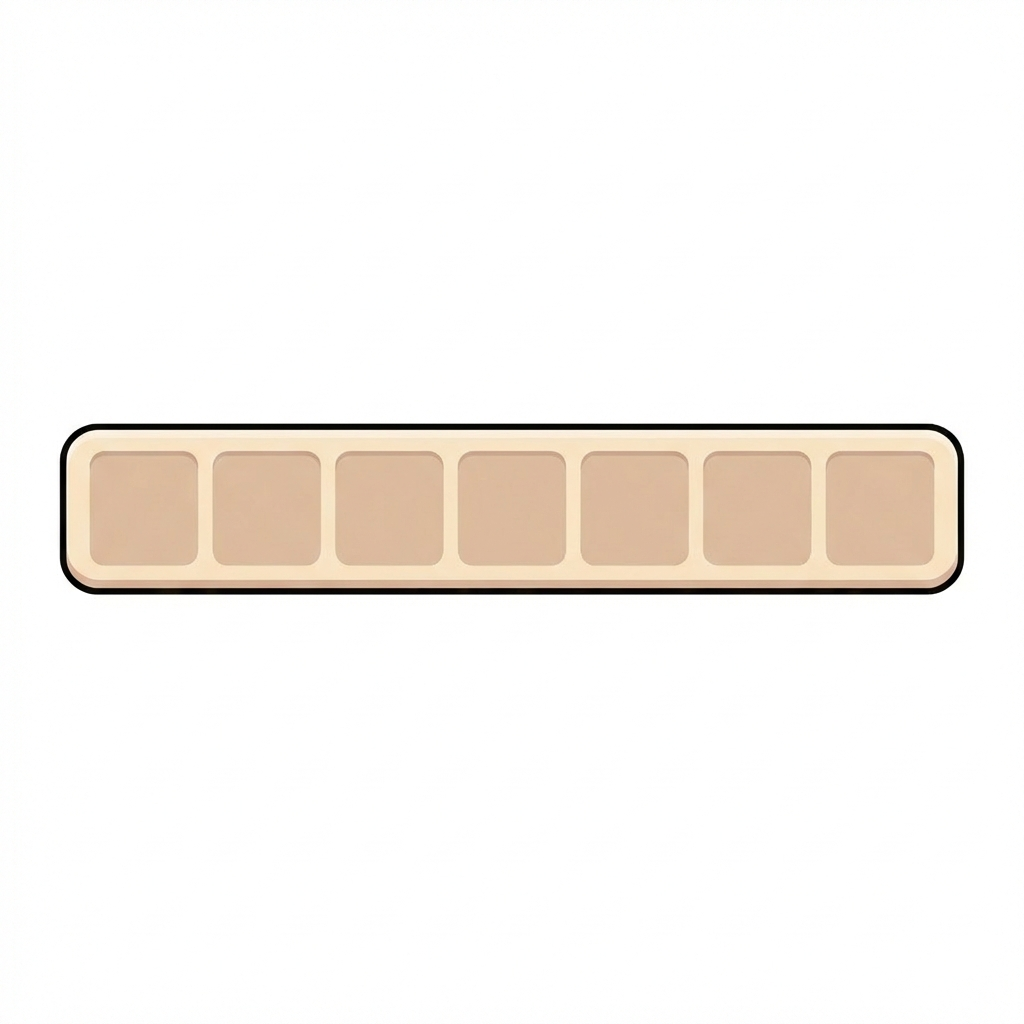
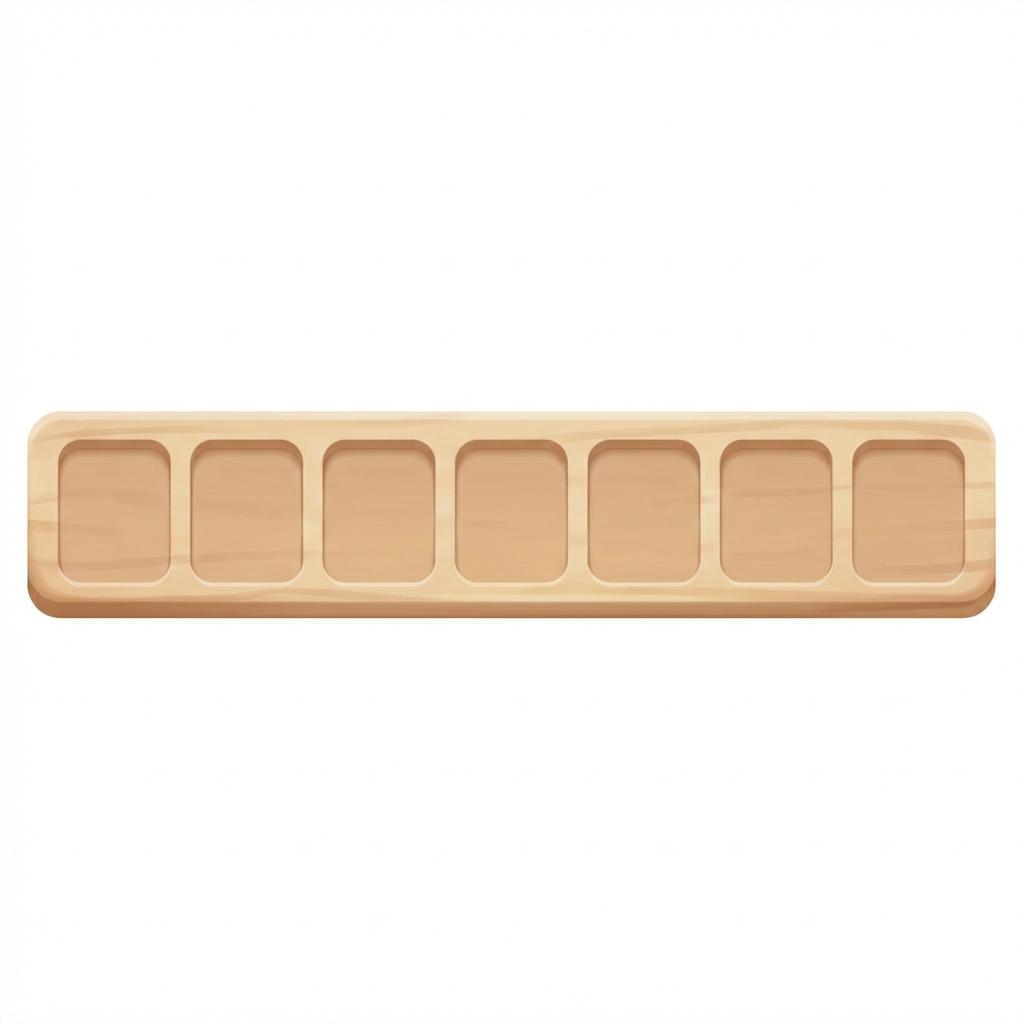
fix(ui): re-gen clean assets, fix win logic, and polish css blend modes

Changed region(s): [[0.0, 0.375, 1.0, 0.625]]

diff --git a/components/activities/tile-match/GameScreen.tsx b/components/activities/tile-match/GameScreen.tsx
@@ -63,11 +63,8 @@ export const GameScreen: React.FC<GameScreenProps> = ({ initialState, runId, lev
         if (matchedType) {
             // Remove 3 tiles of this type
             setTimeout(() => {
-                const keep: Tile[] = [];
                 let removed = 0;
-                // We keep the order generally but filter out the triplets
-                // Usually matching tiles slide together then pop.
-                // Simple version: Filter out first 3 instances
+                // Filter out first 3 instances
                 const newSlots = slots.filter(t => {
                     if (t.type === matchedType && removed < 3) {
                         removed++;
@@ -77,14 +74,22 @@ export const GameScreen: React.FC<GameScreenProps> = ({ initialState, runId, lev
                 });
 
                 setSlots(newSlots);
-                setStatus('playing');
-            }, 300); // Small delay for visual "clink"
+
+                // CRITICAL FIX: Check Win Condition immediately after clearing slots
+                if (newSlots.length === 0 && tiles.every(t => t.isRemoved)) {
+                    setStatus('won');
+                    onFinish('won');
+                } else {
+                    setStatus('playing');
+                }
+            }, 300);
         } else {
-            // Check Lose
+            // Check Lose logic (only if not waiting for timeout)
             if (slots.length >= 7) {
                 setStatus('lost');
                 onFinish('lost');
             } else if (tiles.every(t => t.isRemoved)) {
+                // This covers winning without a final match (rare but possible)
                 setStatus('won');
                 onFinish('won');
             } else {
@@ -149,12 +154,12 @@ export const GameScreen: React.FC<GameScreenProps> = ({ initialState, runId, lev
     const handleHint = () => {
         if (toolCounts.hint >= LIMIT) return;
 
-        // Simple hint: find a clickable tile that matches something in slot
+        // Simple hint
         const clickables = tiles.filter(t => t.isClickable);
 
         let match: Tile | undefined;
 
-        // Priority logic (same as before)
+        // Priority logic
         if (slots.length > 0) {
             const counts: Record<string, number> = {};
             slots.forEach(t => counts[t.type] = (counts[t.type] || 0) + 1);
@@ -179,7 +184,7 @@ export const GameScreen: React.FC<GameScreenProps> = ({ initialState, runId, lev
     const handleRestart = () => {
         if (toolCounts.restart >= LIMIT) return;
         setToolCounts(prev => ({ ...prev, restart: prev.restart + 1 }));
-        window.location.reload(); // Simple reload for now
+        window.location.reload();
     };
 
     return (
@@ -218,12 +223,12 @@ export const GameScreen: React.FC<GameScreenProps> = ({ initialState, runId, lev
 
             {/* Slot Tray & Controls */}
             <div className="h-40 bg-white/10 backdrop-blur-md border-t border-white/20 relative z-30 flex flex-col items-center justify-end pb-4 pt-2">
-                {/* Tray Background Image */}
+                {/* Tray Background Image - Updated with proper scaling and blend mode */}
                 <div className="relative w-[340px] h-[60px] flex items-center justify-center mb-2">
-                    <img src="/game-assets/ui/ui-tray-gen.png" className="absolute inset-0 w-full h-full object-contain pointer-events-none drop-shadow-lg" alt="tray"
+                    <img src="/game-assets/ui/ui-tray-gen.png" className="absolute inset-0 w-full h-full object-fill mix-blend-multiply pointer-events-none drop-shadow-lg" alt="tray"
                         onError={(e) => { e.currentTarget.style.display = 'none'; }} />
 
-                    {/* Fallback Tray Styles (only visible if img fails) */}
+                    {/* Fallback Tray Styles */}
                     <div className="absolute inset-0 bg-black/20 rounded-xl border border-white/10 -z-10"></div>
 
                     {/* Slots Layer - Align with generated image */}
@@ -267,7 +272,7 @@ export const GameScreen: React.FC<GameScreenProps> = ({ initialState, runId, lev
                 </div>
             </div>
 
-            {/* Overlays (Win/Loss) */}
+            {/* Overlays (Win/Loss) - Ensure z-index is highest */}
             {status === 'won' && (
                 <div className="absolute inset-0 z-50 bg-black/80 flex flex-col items-center justify-center animate-in fade-in">
                     <div className="relative z-10 text-center p-8 bg-white/10 backdrop-blur-xl rounded-3xl border border-white/20 shadow-2xl">
@@ -293,7 +298,7 @@ export const GameScreen: React.FC<GameScreenProps> = ({ initialState, runId, lev
     );
 };
 
-// Updated ToolBtn to use Sprite Sheet
+// Updated ToolBtn to use Sprite Sheet with Blend Mode
 const ToolBtn = ({ label, onClick, disabled, spriteIndex }: { label: string, onClick: () => void, disabled: boolean, spriteIndex: number }) => {
     // Sprite calc: 5 items. Positions: 0, 25, 50, 75, 100%
     const xPos = spriteIndex * 25;
@@ -306,7 +311,7 @@ const ToolBtn = ({ label, onClick, disabled, spriteIndex }: { label: string, onC
         >
             <div className="size-14 rounded-full shadow-lg border-2 border-white/40 overflow-hidden bg-white/10 relative">
                 <div
-                    className="absolute inset-0"
+                    className="absolute inset-0 mix-blend-multiply" // Added blend mode to remove white bg
                     style={{
                         backgroundImage: 'url(/game-assets/sprites/ui-buttons-gen.png)',
                         backgroundSize: '500% 100%',

diff --git a/components/activities/tile-match/TileRenderer.tsx b/components/activities/tile-match/TileRenderer.tsx
@@ -53,9 +53,9 @@ export const TileRenderer: React.FC<TileRendererProps> = ({ tile, onClick, slotI
         }
     }, [tile.x, tile.y, tile.z, tile.isClickable, slotIndex]);
 
-    // Image Paths (Sprite Sheets)
+    // Image Paths (Sprite Sheet)
     const spritePath = `/game-assets/sprites/tiles-gen.png`;
-    const uiSpritePath = `/game-assets/sprites/ui-buttons-gen.png`; // 5 items: Undo, Shuffle, Hint, Restart, CardBG
+    // const uiSpritePath = `/game-assets/sprites/ui-buttons-gen.png`; 
 
     // Map type to index
     const TILE_SPRITE_INDEX: Record<string, number> = {
@@ -79,19 +79,12 @@ export const TileRenderer: React.FC<TileRendererProps> = ({ tile, onClick, slotI
             style={{
                 width: 40,
                 height: 48,
-                ...style
+                ...style // style includes zIndex, left, top, boxshadow etc.
             }}
         >
-            {/* Card Background Layer (From UI Sprite - Index 4) */}
-            <div className="absolute inset-0 z-0 rounded-md overflow-hidden shadow-sm">
-                <div style={{
-                    width: '100%',
-                    height: '100%',
-                    backgroundImage: `url(${uiSpritePath})`,
-                    backgroundSize: '500% 100%', // 5 items horizontal
-                    backgroundPosition: '100% 0%', // The last item (index 4)
-                    backgroundRepeat: 'no-repeat'
-                }}></div>
+            {/* Card Background Layer (Simple White CSS) */}
+            <div className="absolute inset-0 z-0 bg-white rounded-md border-2 border-slate-300 overflow-hidden shadow-sm">
+                {/* Removed generic IMG, using solid white to match tile sprite bg */}
             </div>
 
             {/* Content Layer (Sprite) */}
@@ -104,6 +97,7 @@ export const TileRenderer: React.FC<TileRendererProps> = ({ tile, onClick, slotI
                         backgroundSize: '400% 300%',
                         backgroundPosition: `${xPos}% ${yPos}%`,
                         backgroundRepeat: 'no-repeat'
+                        // No mix-blend-mode needed if both backgrounds are white
                     }}
                 />
             </div>
